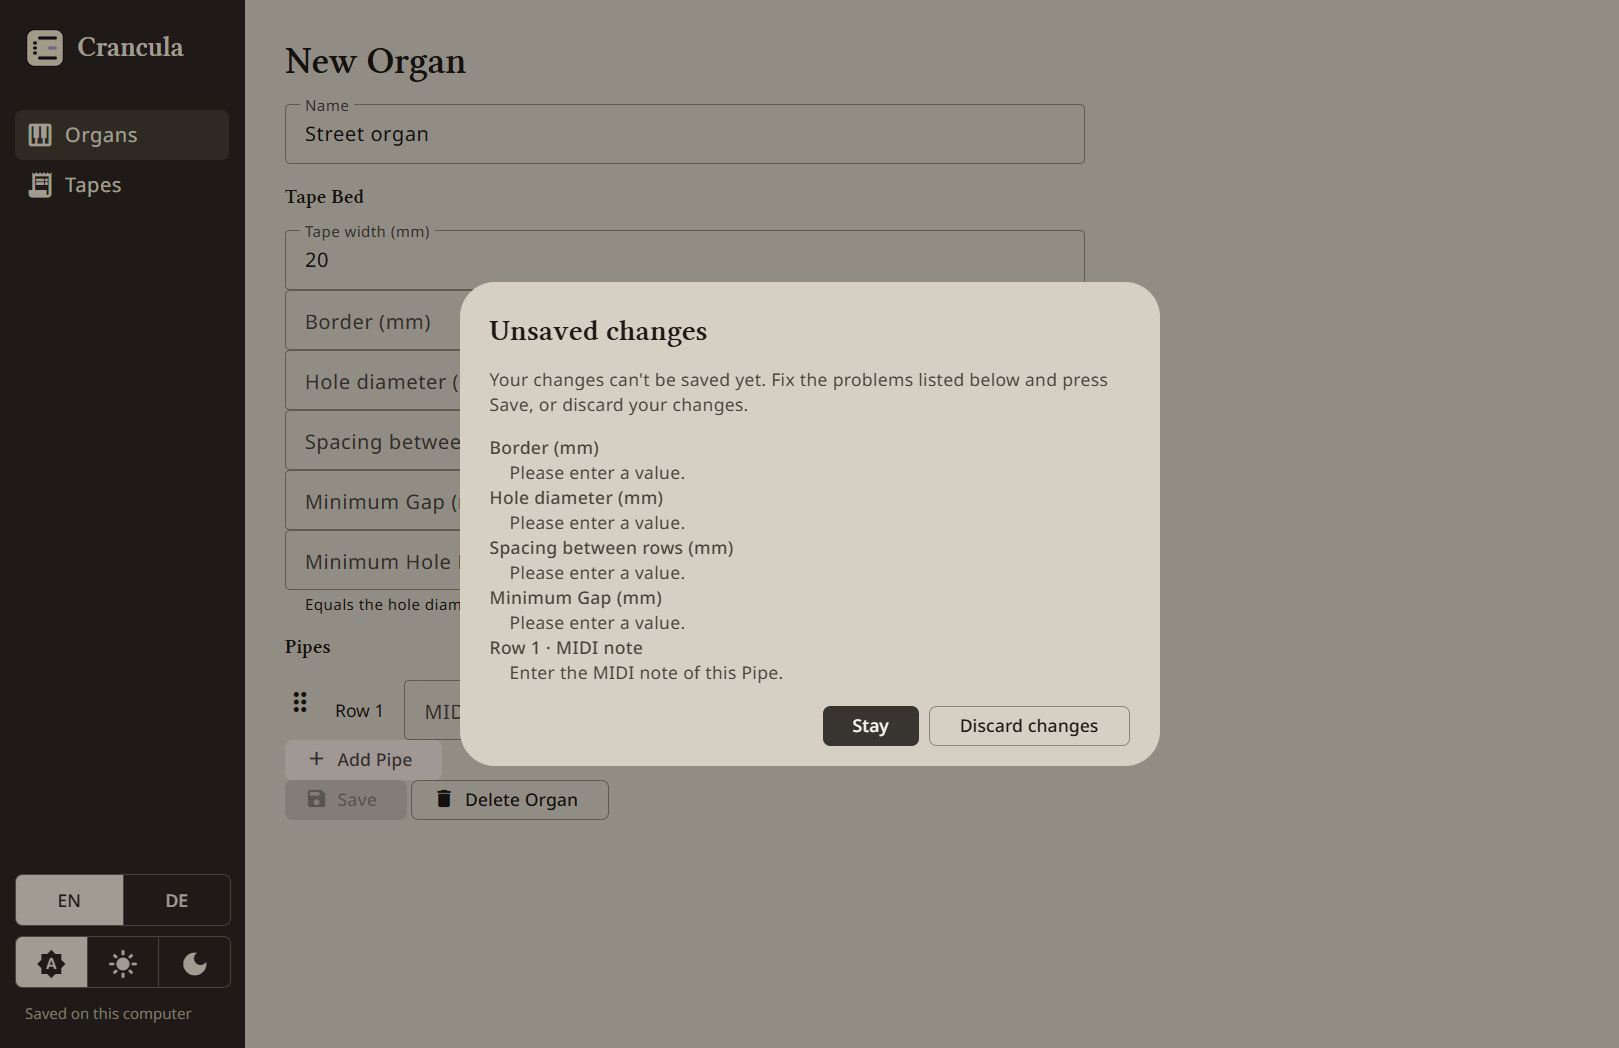
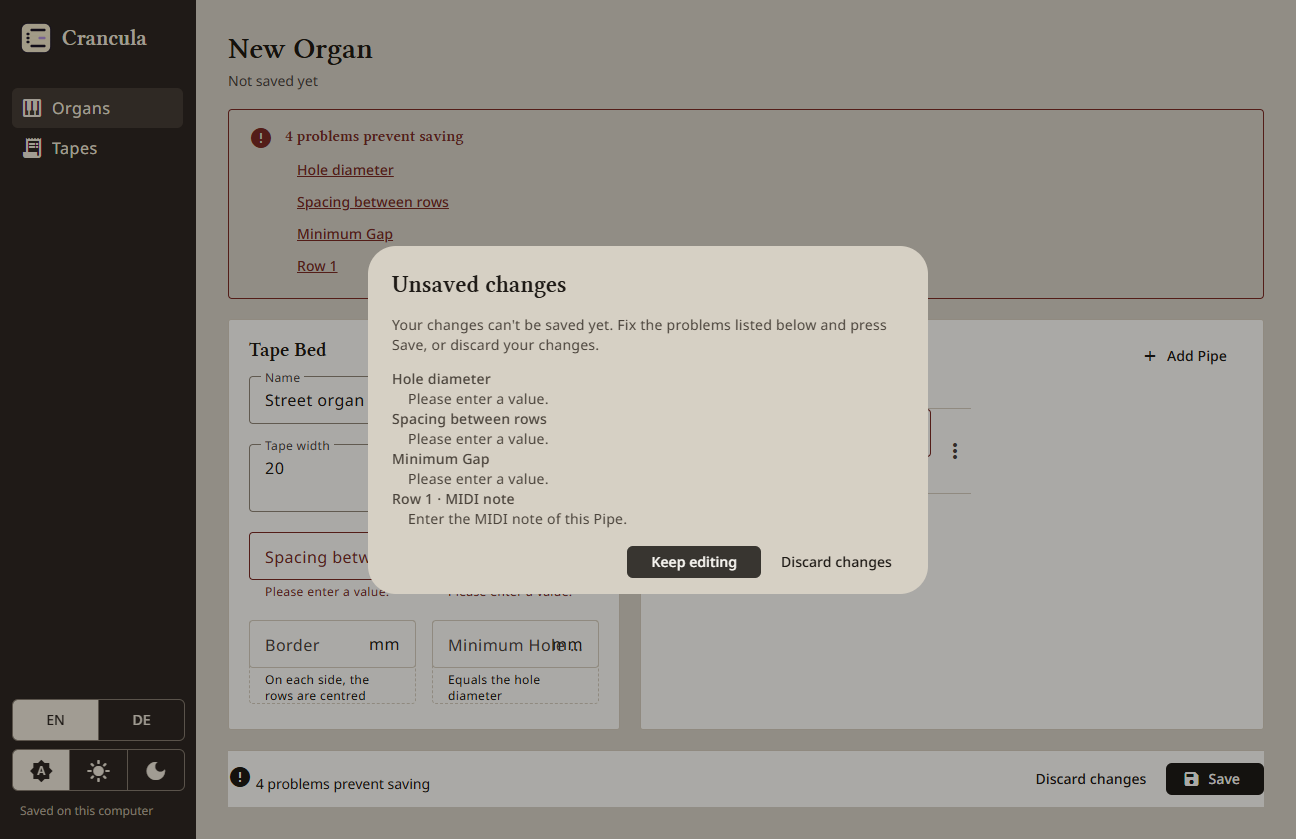
chore(design): screens and ux-review for the Organ editor, 36/50; dialog screenshot waits
Closes #72 via this branch's pull request.

Refs #64, #72

diff --git a/e2e/ux/screens.capture.ts b/e2e/ux/screens.capture.ts
@@ -12,8 +12,12 @@ async function capture(window: Page, name: string): Promise<void> {
   await window.waitForLoadState('networkidle');
   // CSS transitions, CSS animations and Web Animations all show up in getAnimations(); loop in case one starts another.
   await window.evaluate(async () => {
-    while (document.getAnimations().length > 0) {
-      await Promise.allSettled(document.getAnimations().map((animation) => animation.finished));
+    // Endless animations (spinners, pulses) never finish; waiting for them would hang.
+    const finite = () => document.getAnimations().filter((animation) => animation.playState !== 'finished' && animation.effect?.getComputedTiming().endTime !== Infinity);
+    const start = Date.now();
+    while (finite().length > 0) {
+      if (Date.now() - start > 5000) throw new Error('ANIMS ' + finite().map((a) => `${a.playState}:${(a.effect as KeyframeEffect | null)?.target?.className}:${(a as CSSTransition).transitionProperty ?? (a as CSSAnimation).animationName}`).join('|'));
+      await Promise.race([Promise.allSettled(finite().map((animation) => animation.finished)), new Promise((r) => setTimeout(r, 100))]);
     }
   });
   await window.screenshot({path: join(SCREENS, `${name}.png`), fullPage: true});
@@ -44,16 +48,28 @@ test.describe('UX screens', () => {
     await window.getByTestId('name').fill('Street organ');
     await window.getByTestId('tape-width').fill('20');
     await window.getByTestId('add-pipe').click();
-    await window.getByTestId('name').click();
+    await window.getByTestId('save-organ').click();
+    await expect(window.getByTestId('error-summary')).toBeVisible();
     await capture(window, '03-organ-editor-invalid');
 
     await window.getByRole('link', {name: 'Organs'}).click();
     await expect(window.getByRole('dialog')).toBeVisible();
-    await expect(window.getByRole('button', {name: 'Discard changes'})).toBeVisible();
+    await expect(window.getByRole('dialog').getByRole('button', {name: 'Discard changes'})).toBeVisible();
+    // The dialog fades and scales in; settle it (and its backdrop) before the screenshot (#72).
+    await window.waitForFunction(() => {
+      const panel = document.querySelector('.mat-mdc-dialog-surface');
+      return panel !== null && getComputedStyle(panel).opacity === '1' && document.getAnimations().every((animation) => animation.effect?.getComputedTiming().endTime === Infinity);
+    });
     await capture(window, '03b-leave-unsaved-dialog');
-    await window.getByRole('button', {name: 'Discard changes'}).click();
+    await window.getByRole('dialog').getByRole('button', {name: 'Discard changes'}).click();
     await defineStreetOrgan(window);
     await capture(window, '04-organ-editor-filled');
+
+    await window.getByTestId('minimum-gap').fill('2');
+    await expect(window.getByTestId('unsaved-dot')).toBeVisible();
+    await capture(window, '04b-organ-editor-unsaved');
+    await window.getByTestId('discard-changes').click();
+    await expect(window.getByTestId('save-organ')).toBeDisabled();
 
     await window.getByRole('link', {name: 'Organs'}).click();
     await capture(window, '05-organ-list');
@@ -94,6 +110,11 @@ test.describe('UX screens', () => {
     // Keep the pointer off the rail so no tooltip is open while capturing.
     await window.mouse.move(640, 400);
     await capture(window, '12-organ-list-compact');
+
+    await window.getByTestId('organ').first().click();
+    await expect(window.getByTestId('save-organ')).toBeVisible();
+    await window.mouse.move(640, 400);
+    await capture(window, '13-organ-editor-compact');
     await resizeWindow(launched, 1280, 800);
   });
 });

diff --git a/documentation/design/tasks.md b/documentation/design/tasks.md
@@ -198,7 +198,7 @@ Every task that adds or changes UI text adds the keys to `en.json` and `de.json`
   document does not scroll, the rack has 3 columns and the action bar is in view; at 1024×700 the
   document does not scroll, the rack has 2 columns, only the Pipes sheet scrolls, and the Tape Bed
   sheet and the action bar stay in view; no two Tape Bed field boxes overlap. Needs real layout.
-- [ ] **E24** Full `npm run e2e`, `npm run test`, `npm run lint`, `npm run i18n:check`. Then
+- [x] **E24** Full `npm run e2e`, `npm run test`, `npm run lint`, `npm run i18n:check`. Then
   `npm run ux:screens` (03 shows the error summary after pressing Save; add the editor with
   unsaved changes and the editor at 1024×700), `ux-review`; score into STATUS.
 
